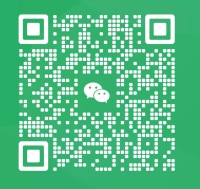
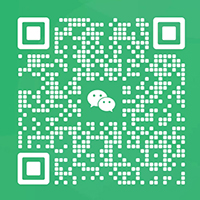
更换悬浮二维码

diff --git a/docs/static/js/app.c3016a4cc08871492196.js b/docs/static/js/app.c3016a4cc08871492196.js
@@ -1,0 +1,2 @@
+webpackJsonp([1],{"34KM":function(n,t){},"8PW/":function(n,t){n.exports="#work-text {\r\n  width: 99%;\r\n}\r\n  \r\n#style-text {\r\n  display: none;\r\n}\r\n\r\n#work-text .text {\r\n  margin-bottom: 400px;\r\n}\r\n\r\nli img:hover {\r\n  animation:fadenum 2s;\r\n}\r\n\r\n@keyframes fadenum {\r\n   100%{ transform:rotate(360deg); }\r\n}"},KOIO:function(n,t){n.exports="/**\n * 好像不太美观~\n * \n * 现在做一些适当调整\n */\n\n\n/**\n * 先加个头像^^\n */\n\nli img {\n  zoom: 30%;\n  float: right;\n  content: url(static/avatar.png);\n}\n\n/**\n * 接着修改下字体\n */\n\nli,.md > p {\n  font-size: 1.3em;\n}\n\nblockquote {\n  margin: 0.1rem 0px;\n  border-left: 3px solid #dfe2e5;\n  padding: 0 1px;\n  color: #a69f9f;\n  font-size: 1.3em;\n}\n\nh1 {\n  font-size: 2em;\n}\n\nh2 {\n  font-size: 1.8em;\n}\n\nh3 {\n  font-size: 1.6em;\n}\n\nh4 {\n  font-size: 1.4em;\n}\n\nh5 {\n  font-size: 1.2em;\n}\n\nh6 {\n  font-size: 1em;\n}\n\n\n/**\n * 还差最后一点就结束了\n */\n\n@keyframes md {\n  from { box-shadow: 0 0 30px rgb(79, 65, 57); }\n  50% { box-shadow: 0 0 10px rgb(146, 181, 225); }\n  to { box-shadow: 0 0 30px rgb(79, 65, 57); }\n}\n\n/**\n * 如果你觉得我还不错，可以与我联系~\n */\n"},NHnr:function(n,t,e){"use strict";Object.defineProperty(t,"__esModule",{value:!0});var r=e("/5sW"),s=e("Xxa5"),i=e.n(s),o=e("exGp"),a=e.n(o),c=e("0Qa9"),l=e.n(c),h=!1,p=/(\/\*(?:[^](?!\/\*))*\*)$/,u=/([a-zA-Z- ^\n]*)$/,d=/([^:]*)$/,f=/(.*)$/,m=/\dp/,x=/p$/,w=/\de/,v=/e$/;function g(n,t){return h&&"/"!==t?n+=t:"/"===t&&!1===h?(h=!0,n+=t):"/"===t&&"*"===n.slice(-1)&&!0===h?(h=!1,n=n.replace(p,'<span class="comment">$1/</span>')):":"===t?n=n.replace(u,'<span class="key">$1</span>:'):""===t?n=n.replace(d,'<span class="value">$1</span>'):"{"===t?n=n.replace(f,'<span class="selector">$1</span>{'):"x"===t&&m.test(n.slice(-2))?n=n.replace(x,'<span class="px">px</span>'):"m"===t&&w.test(n.slice(-2))?n=n.replace(v,'<span class="em">em</span>'):n+=t,n}var k=/[？！。~：]$/,C=/\D[，；、]$/,b=/[^/]\n\n$/,S={data:function(){return{text:"",speed:35}},created:function(){this.styleBuffer=""},methods:{writeTo:function(n,t,e,r,s,o){var c=this;return a()(i.a.mark(function a(){var h,p,u;return i.a.wrap(function(i){for(;;)switch(i.prev=i.next){case 0:if(!c.$root.animationSkipped){i.next=2;break}throw new Error("SKIP IT");case 2:if(h=t.slice(e,e+o),e+=o,n.scrollTop=n.scrollHeight,s?c.writeChar(h,e===t.length):c.writeSimpleChar(h),!(e<t.length)){i.next=17;break}p=r,u=t.slice(e-2,e),C.test(u)&&(p=1*r),k.test(u)&&(p=1*r),u=t.slice(e-2,e+1),b.test(u)&&(p=1*r);case 13:return i.next=15,l.a.delay(p);case 15:if(c.$root.paused){i.next=13;break}case 16:return i.abrupt("return",c.writeTo(n,t,e,r,s,o));case 17:case"end":return i.stop()}},a,c)}))()},writeChar:function(n,t){this.text=g(this.text,n),this.styleBuffer+=n,(";"===n||t)&&(this.$root.$emit("styleAppend",this.styleBuffer),this.styleBuffer="")},writeSimpleChar:function(n){this.text+=n}}},y=[0,1,2].map(function(n){return e("WKMY")("./styles"+n+".css")}),$={name:"style-text",mixins:[S],methods:{write:function(n){var t=this;return a()(i.a.mark(function e(){return i.a.wrap(function(e){for(;;)switch(e.prev=e.next){case 0:return e.next=2,t.writeTo(t.$el,y[n],0,t.speed,!0,1);case 2:case"end":return e.stop()}},e,t)}))()},writeToEnd:function(){for(var n=y.join("\n"),t="",e=0;e<n.length;e++)t=g(t,n[e]);this.text=t,this.$root.$emit("styleOverwrite","#work-text * {transition: none; }"+n)}}},T={render:function(){var n=this.$createElement;return(this._self._c||n)("pre",{attrs:{id:"style-text",contenteditable:""},domProps:{innerHTML:this._s(this.text)}})},staticRenderFns:[]},M=e("VU/8")($,T,!1,null,null,null).exports,E=e("Q3oH"),_=e.n(E),P=e("uN3R"),H=e.n(P),L=e("EFqf"),N=e.n(L),A={name:"work-text",mixins:[S],data:function(){return{flipped:!1,preview:!0,show:!1,showMd:!0,workText:_.a,mdText:N()(_.a)}},computed:{workCls:function(){return this.flipped?"flipped":""}},methods:{write:function(){var n=this;return a()(i.a.mark(function t(){return i.a.wrap(function(t){for(;;)switch(t.prev=t.next){case 0:return n.show=!0,t.next=3,n.writeTo(n.$el,_.a,0,n.speed,!1,1);case 3:case"end":return t.stop()}},t,n)}))()},showWorkBox:function(){var n=this;this.show=!0,this.preview=!1,this.flipped=!0,this.$nextTick(function(){n.$el.scrollTop=9999;var t,e=!1;H()(n.$el,(t=a()(i.a.mark(function n(t,r){return i.a.wrap(function(n){for(;;)switch(n.prev=n.next){case 0:if(!e){n.next=2;break}return n.abrupt("return");case 2:if(!(this.flipped?this.$el.scrollTop<=0:this.$el.scrollTop+this.$el.clientHeight>=this.$el.scrollHeight-10)){n.next=11;break}return this.showMd=!this.showMd,this.flipped=!this.flipped,e=!0,n.next=9,l.a.delay(500);case 9:this.$el.scrollTop=this.flipped?9999:0,e=!1;case 11:this.$el.scrollTop+=r*(this.flipped?-1:1);case 12:case"end":return n.stop()}},n,this)})),function(n,e){return t.apply(this,arguments)}).bind(n),!0)})}}},V={render:function(){var n=this,t=n.$createElement,e=n._self._c||t;return e("pre",{directives:[{name:"show",rawName:"v-show",value:n.show,expression:"show"}],class:n.workCls,attrs:{id:"work-text"}},[n._v("  "),n.preview?e("div",{domProps:{innerHTML:n._s(n.text)}}):e("div",[n._v("\n    "),e("div",{directives:[{name:"show",rawName:"v-show",value:!n.showMd,expression:"!showMd"}],staticClass:"text",domProps:{innerHTML:n._s(n.workText)}}),n._v("\n    "),e("div",{directives:[{name:"show",rawName:"v-show",value:n.showMd,expression:"showMd"}],staticClass:"md",domProps:{innerHTML:n._s(n.mdText)}}),n._v("\n  ")]),n._v("\n")])},staticRenderFns:[]},B=e("VU/8")(A,V,!1,null,null,null).exports,z=['<?xml version="1.0" encoding="UTF-8"?><svg width="28" height="28" viewBox="0 0 48 33" fill="none" xmlns="http://www.w3.org/2000/svg"><path d="M16 12V36" stroke="#000000" stroke-width="3" stroke-linecap="round" stroke-linejoin="round"/><path d="M32 12V36" stroke="#000000" stroke-width="3" stroke-linecap="round" stroke-linejoin="round"/></svg>','<?xml version="1.0" encoding="UTF-8"?><svg width="28" height="28" viewBox="0 0 48 33" fill="none" xmlns="http://www.w3.org/2000/svg"><path d="M15 24V11.8756L25.5 17.9378L36 24L25.5 30.0622L15 36.1244V24Z" fill="#000000" stroke="#000000" stroke-width="3" stroke-linejoin="round"/></svg>'],J=["暂停","继续"],K={name:"v-footer",data:function(){return{state:0,isEnd:!1,target:"_blank",qrcodeShow:!1}},computed:{text:function(){return z[this.state]},tips:function(){return J[this.state]}},methods:{togglePause:function(){this.state=0===this.state?1:0,this.$root.$emit("togglePause",this.state)},skip:function(){this.$root.$emit("skip"),this.$root.$emit("togglePause",0)},end:function(){this.isEnd=!0}}},j={render:function(){var n=this,t=n.$createElement,e=n._self._c||t;return e("footer",[e("a",{directives:[{name:"show",rawName:"v-show",value:!n.isEnd,expression:"!isEnd"}],attrs:{href:"#",title:n.tips},domProps:{innerHTML:n._s(n.text)},on:{click:function(t){return t.preventDefault(),n.togglePause(t)}}}),n._v(" "),e("a",{directives:[{name:"show",rawName:"v-show",value:!n.isEnd,expression:"!isEnd"}],attrs:{href:"#",title:"跳过"},on:{click:function(t){return t.preventDefault(),n.skip(t)}}},[e("svg",{attrs:{width:"22",height:"22",viewBox:"0 0 48 48",fill:"none",xmlns:"http://www.w3.org/2000/svg"}},[e("path",{attrs:{"fill-rule":"evenodd","clip-rule":"evenodd",d:"M4 40.8361C8.89307 34.8632 13.2383 31.4739 17.0356 30.6682C20.8329 29.8625 24.4483 29.7408 27.8818 30.303V41L44 23.5453L27.8818 7V17.167C21.5333 17.2172 16.1362 19.4948 11.6905 24C7.24474 28.5052 4.68126 34.1172 4 40.8361Z",fill:"#000000",stroke:"#000000","stroke-width":"3","stroke-linejoin":"round"}})])]),n._v(" "),e("a",{directives:[{name:"show",rawName:"v-show",value:n.isEnd,expression:"isEnd"}],attrs:{href:"https://github.com/xmxe",title:"GitHub",target:n.target}},[e("svg",{staticClass:"icon",attrs:{width:"28",height:"24",viewBox:"0 0 16 16",version:"1.1","aria-hidden":"true"}},[e("path",{attrs:{"fill-rule":"evenodd",d:"M8 0C3.58 0 0 3.58 0 8c0 3.54 2.29 6.53 5.47 7.59.4.07.55-.17.55-.38 0-.19-.01-.82-.01-1.49-2.01.37-2.53-.49-2.69-.94-.09-.23-.48-.94-.82-1.13-.28-.15-.68-.52-.01-.53.63-.01 1.08.58 1.23.82.72 1.21 1.87.87 2.33.66.07-.52.28-.87.51-1.07-1.78-.2-3.64-.89-3.64-3.95 0-.87.31-1.59.82-2.15-.08-.2-.36-1.02.08-2.12 0 0 .67-.21 2.2.82.64-.18 1.32-.27 2-.27.68 0 1.36.09 2 .27 1.53-1.04 2.2-.82 2.2-.82.44 1.1.16 1.92.08 2.12.51.56.82 1.27.82 2.15 0 3.07-1.87 3.75-3.65 3.95.29.25.54.73.54 1.48 0 1.07-.01 1.93-.01 2.2 0 .21.15.46.55.38A8.013 8.013 0 0 0 16 8c0-4.42-3.58-8-8-8z"}})])]),n._v(" "),e("a",{directives:[{name:"show",rawName:"v-show",value:n.isEnd,expression:"isEnd"}],attrs:{href:"https://gitee.com/xmxe",title:"码云",target:n.target}},[e("svg",{staticClass:"icon",attrs:{width:"24",height:"24",viewBox:"0 0 1024 1024",version:"1.1",xmlns:"http://www.w3.org/2000/svg","p-id":"991","xmlns:xlink":"http://www.w3.org/1999/xlink"}},[e("path",{attrs:{d:"M512 1024C229.222 1024 0 794.778 0 512S229.222 0 512 0s512 229.222 512 512-229.222 512-512 512z m259.149-568.883h-290.74a25.293 25.293 0 0 0-25.292 25.293l-0.026 63.206c0 13.952 11.315 25.293 25.267 25.293h177.024c13.978 0 25.293 11.315 25.293 25.267v12.646a75.853 75.853 0 0 1-75.853 75.853h-240.23a25.293 25.293 0 0 1-25.267-25.293V417.203a75.853 75.853 0 0 1 75.827-75.853h353.946a25.293 25.293 0 0 0 25.267-25.292l0.077-63.207a25.293 25.293 0 0 0-25.268-25.293H417.152a189.62 189.62 0 0 0-189.62 189.645V771.15c0 13.977 11.316 25.293 25.294 25.293h372.94a170.65 170.65 0 0 0 170.65-170.65V480.384a25.293 25.293 0 0 0-25.293-25.267z",fill:"#000","p-id":"992"}})])]),n._v(" "),e("a",{directives:[{name:"show",rawName:"v-show",value:n.isEnd,expression:"isEnd"}],attrs:{href:"https://xmxe.github.io/blog",title:"博客",target:n.target}},[e("svg",{staticClass:"icon",attrs:{width:"25",height:"24",viewBox:"0 0 412 542",xmlns:"http://www.w3.org/2000/svg"}},[e("path",{attrs:{d:"M172.2 226.8c-14.6-2.9-28.2 8.9-28.2 23.8V301c0 10.2 7.1 18.4 16.7 22 18.2 6.8 31.3 24.4 31.3 45 0 26.5-21.5 48-48 48s-48-21.5-48-48V120c0-13.3-10.7-24-24-24H24c-13.3 0-24 10.7-24 24v248c0 89.5 82.1 160.2 175 140.7 54.4-11.4 98.3-55.4 109.7-109.7 17.4-82.9-37-157.2-112.5-172.2zM209 0c-9.2-.5-17 6.8-17 16v31.6c0 8.5 6.6 15.5 15 15.9 129.4 7 233.4 112 240.9 241.5.5 8.4 7.5 15 15.9 15h32.1c9.2 0 16.5-7.8 16-17C503.4 139.8 372.2 8.6 209 0zm.3 96c-9.3-.7-17.3 6.7-17.3 16.1v32.1c0 8.4 6.5 15.3 14.8 15.9 76.8 6.3 138 68.2 144.9 145.2.8 8.3 7.6 14.7 15.9 14.7h32.2c9.3 0 16.8-8 16.1-17.3-8.4-110.1-96.5-198.2-206.6-206.7z"}})])]),n._v(" "),e("a",{directives:[{name:"show",rawName:"v-show",value:n.isEnd,expression:"isEnd"}],attrs:{href:"javascript:;",title:"微信"},on:{mouseenter:function(t){n.qrcodeShow=!n.qrcodeShow},mouseleave:function(t){n.qrcodeShow=!n.qrcodeShow}}},[e("svg",{staticClass:"icon",attrs:{width:"28",height:"24",viewBox:"0 0 370 255",xmlns:"http://www.w3.org/2000/svg"}},[e("path",{attrs:{d:"M240.489202,85.4155522 C237.300416,85.1728806 234.070779,85.0488907 230.806619,85.0488907 C172.371237,85.0488907 125,124.78592 125,173.80403 C125,183.912009 127.014329,193.625337 130.724628,202.67696 C127.516696,202.890956 124.273529,203 121,203 C105.109229,203 94.9015748,200.147332 81,195.476497 C77.4345683,194.440025 65.6464559,200.392116 45.6356627,213.332769 C44.1611712,214.065139 42.6748998,213.930026 41.1768484,212.927432 C39.6787971,211.924838 39.2798584,210.395832 39.9800323,208.340415 C45.3636651,190.797986 46.8940027,181.061245 44.5710452,179.130192 C16.157209,160.556795 0,134.05785 0,101.5 C0,45.4430979 54.1735453,0 121,0 C181.301419,0 231.300195,37.0020806 240.489202,85.4155522 Z M81,86 C90.3888407,86 98,78.3888407 98,69 C98,59.6111593 90.3888407,52 81,52 C71.6111593,52 64,59.6111593 64,69 C64,78.3888407 71.6111593,86 81,86 Z M162,86 C171.388841,86 179,78.3888407 179,69 C179,59.6111593 171.388841,52 162,52 C152.611159,52 145,59.6111593 145,69 C145,78.3888407 152.611159,86 162,86 Z"}}),n._v(" "),e("path",{attrs:{d:"M235.306619,262.960691 C222.002154,262.960691 213.455848,260.57231 201.816827,256.661677 C198.831688,255.793897 188.962153,260.777254 172.208221,271.611748 C170.97371,272.22492 169.729337,272.111798 168.475102,271.272381 C167.220866,270.432965 166.886856,269.152813 167.473073,267.431926 C171.980492,252.744618 173.261759,244.592583 171.316875,242.975819 C147.527539,227.425339 134,205.239236 134,177.980345 C134,131.046997 179.356518,93 235.306619,93 C291.256719,93 336.613237,131.046997 336.613237,177.980345 C336.613237,224.913694 291.256719,262.960691 235.306619,262.960691 Z M201.816827,165.003051 C209.677585,165.003051 216.049989,158.630648 216.049989,150.76989 C216.049989,142.909132 209.677585,136.536729 201.816827,136.536729 C193.956069,136.536729 187.583666,142.909132 187.583666,150.76989 C187.583666,158.630648 193.956069,165.003051 201.816827,165.003051 Z M269.633655,165.003051 C277.494413,165.003051 283.866816,158.630648 283.866816,150.76989 C283.866816,142.909132 277.494413,136.536729 269.633655,136.536729 C261.772897,136.536729 255.400493,142.909132 255.400493,150.76989 C255.400493,158.630648 261.772897,165.003051 269.633655,165.003051 Z",transform:"translate(235.306619, 182.500000) scale(-1, 1) translate(-235.306619, -182.500000) "}})])]),n._v(" "),e("img",{directives:[{name:"show",rawName:"v-show",value:n.qrcodeShow,expression:"qrcodeShow"}],staticClass:"qrcode",attrs:{src:"static/wechat.jpg"}})])},staticRenderFns:[]};var W=e("VU/8")(K,j,!1,function(n){e("jnST")},"data-v-5b3fce4f",null).exports,F=e("8PW/"),R=e.n(F),U={name:"App",components:{VFooter:W,StyleText:M,WorkText:B},mounted:function(){this.done=!1,this.startAnimation()},methods:{startAnimation:function(){var n=this;return a()(i.a.mark(function t(){return i.a.wrap(function(t){for(;;)switch(t.prev=t.next){case 0:return t.prev=0,t.next=3,n.$refs.styleText.write(0);case 3:return t.next=5,n.$refs.workText.write();case 5:return t.next=7,n.$refs.styleText.write(1);case 7:return n.$refs.workText.showWorkBox(),t.next=10,l.a.delay(2e3);case 10:return t.next=12,n.$refs.styleText.write(2);case 12:return n.$refs.footer.end(),t.next=15,l.a.delay(2e3);case 15:n.fullScreenResume(),t.next=25;break;case 18:if(t.prev=18,t.t0=t.catch(0),"SKIP IT"!==t.t0.message){t.next=24;break}n.surprisinglyShortAttentionSpan(),t.next=25;break;case 24:throw t.t0;case 25:case"end":return t.stop()}},t,n,[[0,18]])}))()},surprisinglyShortAttentionSpan:function(){this.$refs.styleText.writeToEnd(),this.$refs.workText.showWorkBox(),this.$refs.footer.end(),this.fullScreenResume()},fullScreenResume:function(){this.$root.$emit("styleAppend",R.a)}}},Z={render:function(){var n=this.$createElement,t=this._self._c||n;return t("div",{attrs:{id:"app"}},[t("style-text",{ref:"styleText"}),this._v(" "),t("work-text",{ref:"workText"}),this._v(" "),t("v-footer",{ref:"footer"})],1)},staticRenderFns:[]};var q=e("VU/8")(U,Z,!1,function(n){e("rEha")},null,null).exports;e("34KM");r.a.config.productionTip=!0;var D=new r.a({el:"#app",created:function(){this.paused=!1,this.animationSkipped=!1},render:function(n){return n(q)}}),I=document.getElementById("style-tag");D.$on("styleAppend",function(n){I.textContent+=n}),D.$on("styleOverwrite",function(n){I.textContent=n}),D.$on("togglePause",function(n){this.paused=1===n}),D.$on("skip",function(){this.animationSkipped=!0})},Q3oH:function(n,t){n.exports="#### ![](static/me.svg)基本信息\n\n - xmxe/男/1993 ![]()\n - 13111111111\n - 学校/计算机科学与技术/本科\n - 软件设计师\n - 年工作经验\n\n---\n\n#### ![](static/work.svg)工作经历\n\n##### 山东华科信息技术有限公司(2018.10~至今)\n\n###### 项目介绍\n\n> 山东省网源监督服务平台是山东电科院推出的能够实时监督机组涉网功能，诊断机组运行状态，保障源网协调正常运行的在线监督服务平台。\n\n###### 职责\n\n- 采集各电厂天气预报数据，使用HttpClient+JSoup对中央气象网历史天气、未来天气的数据进行抓取，将结果生成Excel。\n- 采用Nginx+Keepalived搭建HA服务，Nginx实现了应用的反向代理、负载均衡、跨域协作，Keepalived对Nginx进行心跳检测，使用主从架构保证了服务的稳定运行。\n- 搭建持续集成服务Jenkins，编写Ant脚本对项目进行编译、打包，优化了部署流程，提高了部署效率。\n- 基于Dubbo进行调控云接口服务端的开发，调控云提供注册方式，编写业务接口后将接口以服务的方式注册到调控云集群供客户端调用。\n- 运维大数据集群部分调度任务，主要是将PMU的数据写入到Kafka并启动Spark任务。\n- 在调度系统中增加Java调用Python的功能(Runtime库)，后期使用开源调度框架XXL-JOB来运行部分调度任务及Python算法。\n- 由于实时数据库接口没有提供Python版本SDK，增加Python调用Java功能(Jpype库)。\n- 后台相关子系统Restful接口及前端页面的开发。\n- 参与其他项目，协助其他团队，与团队成员一起负责不同项目的设计、编码、单元测试等工作。\n- 技术文档的编写以及维护，定期Review团队代码，参与需求分析、概要设计、文档编写、项目实施、系统维护等工作。\n\n##### 山东中住地产经纪有限公司(2016.8~2018.10)\n\n###### 项目介绍\n\n> 济房网后台管理系统通过对中住地产内部房源数据的处理,实现置业顾问对房源申请、审批、取代、统计、合同签约、客户管理等功能。\n\n###### 职责\n\n- 针对数据库进行了架构改造，使用MyCat中间件实现MySQL的读写分离。\n- 结合Nginx搭建分布式文件系统FastDFS，并提供上传下载接口，解决了服务器大容量存储和负载均衡的问题。\n- 针对静态页面重复开发的问题采用FreeMarker模板引擎生成HTML，提高了整体的开发效率。\n- 使用WebSocket进行用户管理，当相同用户同时登陆时服务端主动推送消息实现多余用户的登出。\n- 进行Linux操作系统的运行维护工作，编写简单的Shell脚本供Java任务的自启动。\n- 针对线上频繁FullGC、CPU负载过高进行问题排查，并对Tomcat的JVM参数调优。\n- 对济房网App等产品提供整体开发及组内外管理协调工作，并提供APP后台接口服务。\n- 参与软件项目的需求分析、设计、开发及测试等阶段。\n\n##### 山东益信通网络科技股份有限公司(2015.9~2016.8)\n\n###### 项目介绍\n\n> 电信集成家庭医生签约服务信息系统是以病人为中心，面向家庭和社区，向病人提供一种连续性的签约式服务，有利于转变医疗卫生服务模式，推动医疗卫生工作重心下移，资源下沉，让居民在家门口就能得到便利的医疗卫生服务，为实现基层首诊、分级诊疗奠定基础。\n\n###### 职责\n\n- 使用SpringAop搭建日志切面，通过自定义注解实现注解方法的日志记录。\n- 参与业务功能表结构设计，在部分业务不明确的情况下最大程度的保留表结构的扩展性及兼容性。\n- 通过慢查询定位数据库SQL查询瓶颈，通过SQL优化以及修改索引大幅缩减查询时间。\n- 对代码库进行封装以及维护，单独抽离出来作为公共库，并且根据业务需求对代码库进行更新，提高代码复用率，减少冗余代码。\n- 为软件测试提供设计、编码等支持工作，并编写软件开发过程中的相关技术文档。\n- 负责软件系统的日常维护和故障排除，参与后端系统的架构设计以及研发流程的改进及优化，协动完成代码审核、Bug修复等工作。\n\n---\n\n#### ![](static/github.svg)开源项目\n\n- [blog](https://github.com/xmxe/blog): 使用Hexo+Matery主题搭建的个人博客。\n- [jwt](https://github.com/xmxe/jwt)：使用JWT替代Cookie及Session认证，结合Spring Security实现鉴别、授权。\n- [oauth2](https://github.com/xmxe/oauth2)：第三方授权登录，如使用GitHub账号登录第三方网站。\n- [springboot](https://github.com/xmxe/springboot)：将主流技术集成到Spring Boot，如Sa-Token,Shiro,CAS单点登陆,Jasypt,Sharding-jdbc,WebSocket等。\n- [springcloud](https://github.com/xmxe/springcloud)：测试主流微服务组件及新生组件，如Apache ShenYu,Spring Cloud Netflix, Spring Cloud Alibaba,Spring Cloud Tencent等。\n\n---\n\n#### ![](static/code.svg)专业技能\n\n- 有着扎实的Java编程基础，熟悉JAVAEE相关技术，能够掌握面向对象的编程及开发。\n- 熟悉HTML、CSS、JavaScript等前端技术，了解主流框架如NodeJS。\n- 掌握Oracle、MySQL、SQL Server等关系型数据库，能够灵活运用SQL进行数据的增删查改及调优，了解主流开源NoSQL系统如MongoDB，ElasticSearch等。\n- 熟练使用Spring、SpringMVC、Spring Boot、Spring Cloud等框架进行集成开发。\n- 熟练使用Eclipse、IntelliJ IDEA、VS Code等IDE，熟悉Tomcat、Jetty中间件，熟练使用Git、SVN等版本控制工具。\n- 熟悉Linux操作系统及常用命令，可以编写简单的Shell脚本。\n- 熟练搭建主流技术栈集群，如Redis，Nginx，Keepalived，Zookeeper，Kafka，Docker等。\n\n---\n\n#### ![](static/blog.svg)社交主页\n\n- GitHub：https://github.com/xmxe\n- Gitee：https://gitee.com/xmxe\n- 博客：https://xmxe.github.io/blog\n\n---\n\n#### ![](static/q.svg)自我评价与致谢\n\n- 有良好的代码风格，注重代码质量，具备良好的代码编程习惯及文档编写能力，善于利用工具和代码减少重复性劳动，能进行技术攻关，突破关键技术瓶颈。\n- 感谢您花时间阅读我的简历，我的[GitHub](https://github.com/xmxe)上集成了很多小demo。期待能有机会和您共事。"},UXP2:function(n,t){n.exports='/** \n * 左侧的markdown看起来并不直观\n *\n * 我们稍作修饰\n */\n\n#work-text {\n  max-height: 95.5%;\n  animation-name: md; \n  animation-duration: 3s;\n  animation-iteration-count: infinite; \n}\n\n#work-text.flipped {\n  transform: rotateX(0deg) rotateY(190deg) rotateZ(180deg);\n}\n\n#work-text .md {\n  transform: rotateY(190deg) rotateZ(180deg);\n  margin-top: 400px;\n  font-family: "KaiTi";\n}\n\n/**\n * 可以使用npm库marked来使markdown转换为html\n * \n * 下面就是见证奇迹的时刻\n */\n\n\n'},WKMY:function(n,t,e){var r={"./styles0.css":"amUk","./styles1.css":"UXP2","./styles2.css":"KOIO"};function s(n){return e(i(n))}function i(n){var t=r[n];if(!(t+1))throw new Error("Cannot find module '"+n+"'.");return t}s.keys=function(){return Object.keys(r)},s.resolve=i,n.exports=s,s.id="WKMY"},amUk:function(n,t){n.exports="/**\n * 你好，我叫zhengfl。想找一份高级java工程师或架构师的工作。\n * 我喜欢研究一些有趣的技术，这个就是从https://github.com/ustbhuangyi/resume fork而来\n */\n\n/**\n * 那么开始吧\n * 首先给所有元素加上过渡效果~\n */\n\n* {\n  transition: all 1s;\n}\n\n/**\n * 白色背景太单调了，我们来做一些变化\n */\n\nhtml {\n  background: rgb(63, 82, 99);\n}\n\n/**\n * 等等\n */\n\npre {\n  color: #d5cece;\n}\n\na {\n  color: #64d5ea;\n}\n\n/**\n * 看上去好多了，但是有点刺眼了\n *\n * 而且在整个屏幕上写代码有点浪费空间了\n */\n\npre:not(:empty) {\n  background: rgb(48, 48, 48);\n  border: 1px solid #ccc;\n  max-height: 44.6%;\n  width: 49%;\n  font-size: 14px;\n  padding: 10px 10px 20px;\n  box-shadow: -4px 4px 2px 0 rgba(0, 0, 0, 0.3);\n  outline: 0;\n}\n\n/**\n * 接下来我们在把它移到屏幕右侧\n */\n\n#style-text {\n  transform: translateX(95%);\n  position: absolute;\n}\n\n/**\n * 看上去还不错，但是所有的字体颜色是白色的\n *\n * 那么，我们来把代码变的更加可读吧~\n */\n\n.comment {\n  color: #857f6b;\n  font-style: italic;\n}\n.selector {\n  color: #e69f0f;\n}\n.key {\n  color: #64d5ea;\n}\n.px {\n  color: #be84f2;\n}\n.em {\n  color: #f92772;\n}\n\n#style-text {\n  transform: translateX(98.5%) rotateY(-10deg);\n  transform-origin: right;\n  max-height: 95.5%;\n}\n\n/**\n * 好吧差不多了，接下来就聊聊我吧\n */\n\npre:not(#style-text) {\n  transform: rotateY(10deg);\n}\n\n\n"},jnST:function(n,t){},rEha:function(n,t){}},["NHnr"]);
+//# sourceMappingURL=app.c3016a4cc08871492196.js.map

diff --git a/docs/index.html b/docs/index.html
@@ -1,1 +1,1 @@
-<!DOCTYPE html><html><head><meta charset=utf-8><meta name=viewport content="width=device-width,initial-scale=1"><link rel=icon type=image/png href=static/favicon.png><title>zhengfl's resume</title><style id=style-tag></style><link href=static/css/app.626160b5918d6259c77e1b4ecc63ff54.css rel=stylesheet></head><body spellcheck=false><div id=app></div><script type=text/javascript src=static/js/manifest.37a2ecbb1d1b7e6c9ada.js></script><script type=text/javascript src=static/js/vendor.268bc4cc204e06cbdf2e.js></script><script type=text/javascript src=static/js/app.a4ab284d828c430cfd56.js></script></body></html>
+<!DOCTYPE html><html><head><meta charset=utf-8><meta name=viewport content="width=device-width,initial-scale=1"><link rel=icon type=image/png href=static/favicon.png><title>zhengfl's resume</title><style id=style-tag></style><link href=static/css/app.24af8f663c4ce67c9ae6a89f6c560b29.css rel=stylesheet></head><body spellcheck=false><div id=app></div><script type=text/javascript src=static/js/manifest.37a2ecbb1d1b7e6c9ada.js></script><script type=text/javascript src=static/js/vendor.268bc4cc204e06cbdf2e.js></script><script type=text/javascript src=static/js/app.c3016a4cc08871492196.js></script></body></html>

diff --git a/docs/static/css/app.24af8f663c4ce67c9ae6a89f6c560b29.css b/docs/static/css/app.24af8f663c4ce67c9ae6a89f6c560b29.css
@@ -1,0 +1,2 @@
+#app{position:absolute;top:0;right:0;left:0;bottom:20px}h1,h2,h3,h4,h5,h6,p,ul{margin:1px 0}footer[data-v-5b3fce4f]{position:absolute;bottom:0;left:50%;transform:translate3d(-50%,50%,0)}footer .icon[data-v-5b3fce4f]{vertical-align:bottom}footer .qrcode[data-v-5b3fce4f]{position:absolute;bottom:5px}@media only screen and (max-width:601px){footer .qrcode[data-v-5b3fce4f]{position:absolute;bottom:35px;left:1px}}footer a[data-v-5b3fce4f]{display:inline-block;animation:float-data-v-5b3fce4f 1s infinite ease-in-out alternate}footer a[data-v-5b3fce4f]:nth-of-type(odd){animation-delay:.3s}footer a[data-v-5b3fce4f]:hover{animation-play-state:paused}@keyframes float-data-v-5b3fce4f{to{transform:translateY(-13px)}}body,html{margin-top:0;height:100%;overflow:hidden}pre{max-height:99%;width:100%;overflow-y:auto;overflow-x:hidden;white-space:pre-wrap;border-radius:1px}a:after{content:"";padding-right:5px;border-color:inherit}a:last-of-type:after{border:none}
+/*# sourceMappingURL=app.24af8f663c4ce67c9ae6a89f6c560b29.css.map */
